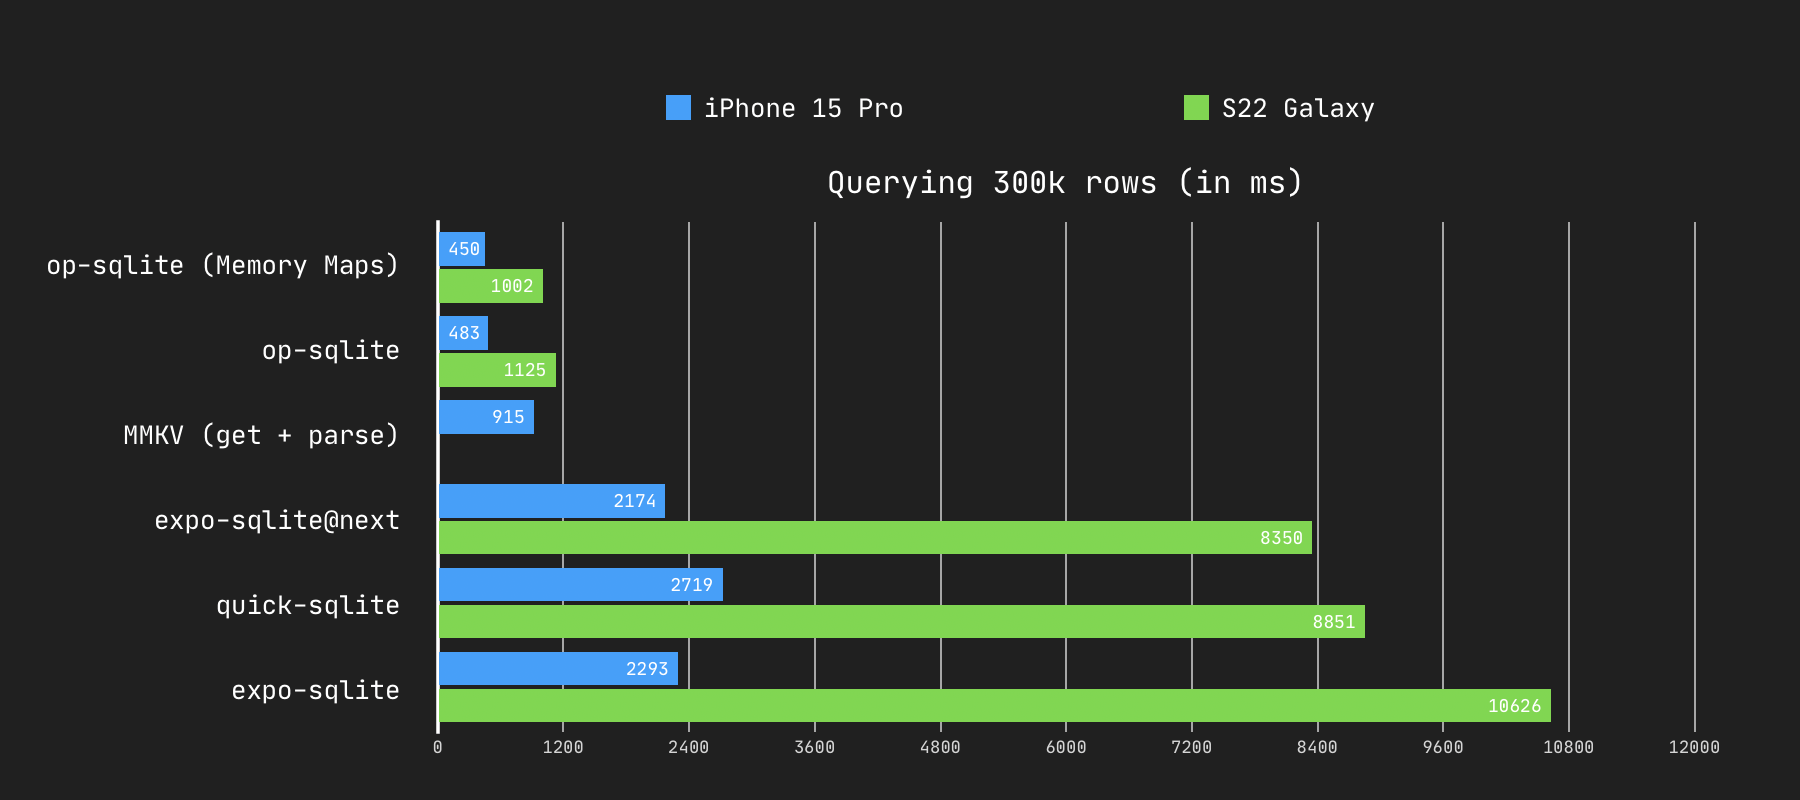
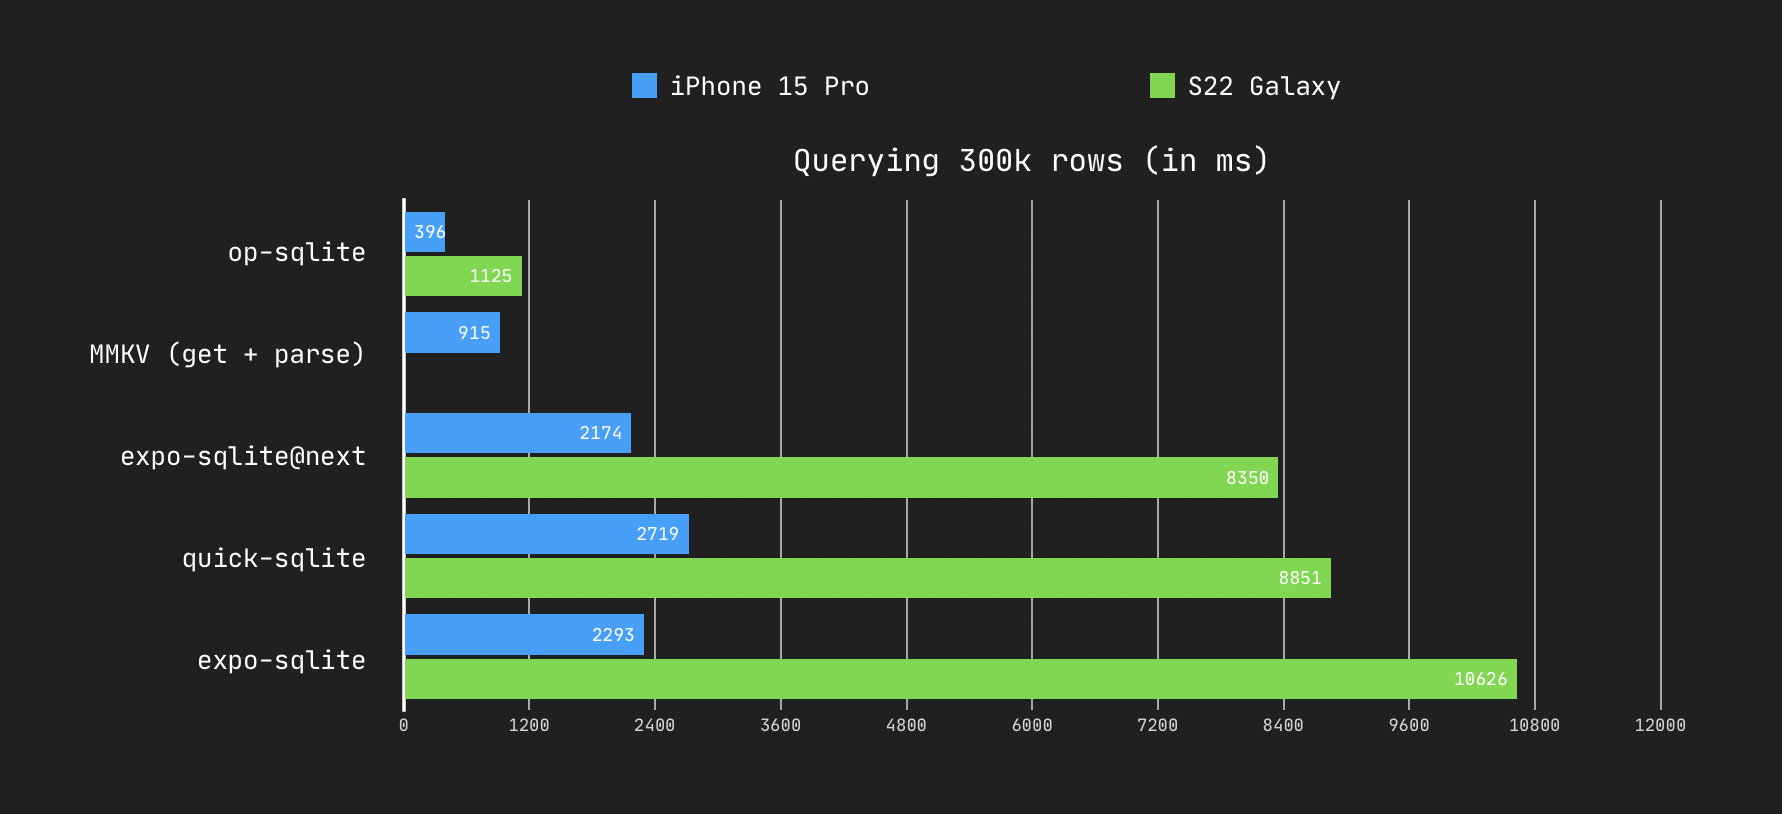
Add performance flag

diff --git a/example/src/Database.ts b/example/src/Database.ts
@@ -84,7 +84,7 @@ export async function queryLargeDB() {
     let end = performance.now();
     times.loadFromDb.push(end - start);
 
-    mmkv.set('largeDB', JSON.stringify(results));
+    // mmkv.set('largeDB', JSON.stringify(results));
     // // @ts-ignore
     // global.gc();
 
@@ -96,34 +96,34 @@ export async function queryLargeDB() {
     // console.log('MMKV time', (end - start).toFixed(2));
 
     // @ts-ignore
-    global.gc();
+    // global.gc();
 
-    performance.mark('accessingStart');
-    const rows = results.rows!._array;
-    for (let i = 0; i < rows.length; i++) {
-      const v1 = rows[i].v14;
-    }
-    const accessMeasurement = performance.measure(
-      'accessingEnd',
-      'accessingStart',
-    );
-    times.access.push(accessMeasurement.duration);
+    // performance.mark('accessingStart');
+    // const rows = results.rows!._array;
+    // for (let i = 0; i < rows.length; i++) {
+    //   const v1 = rows[i].v14;
+    // }
+    // const accessMeasurement = performance.measure(
+    //   'accessingEnd',
+    //   'accessingStart',
+    // );
+    // times.access.push(accessMeasurement.duration);
 
-    // @ts-ignore
-    global.gc();
+    // // @ts-ignore
+    // global.gc();
 
-    start = performance.now();
-    const statement = largeDb.prepareStatement('SELECT * FROM Test');
-    end = performance.now();
-    times.prepare.push(end - start);
+    // start = performance.now();
+    // const statement = largeDb.prepareStatement('SELECT * FROM Test');
+    // end = performance.now();
+    // times.prepare.push(end - start);
 
-    // @ts-ignore
-    global.gc();
+    // // @ts-ignore
+    // global.gc();
 
-    start = performance.now();
-    let results2 = statement.execute();
-    end = performance.now();
-    times.preparedExecution.push(end - start);
+    // start = performance.now();
+    // let results2 = statement.execute();
+    // end = performance.now();
+    // times.preparedExecution.push(end - start);
   }
 
   return times;

diff --git a/README.md b/README.md
@@ -16,7 +16,7 @@ Created by [@ospfranco](https://twitter.com/ospfranco). **Please consider Sponso
 
 ## Benchmarks
 
-You can find the [benchmarking code in the example app](https://github.com/OP-Engineering/op-sqlite/blob/main/example/src/Database.ts#L44). You should expect anywhere between a 5x to an 8x improvement over non-JSI packages, and now a 5x to 8x improvement over quick-sqlite and expo-sqlite. Loading a 300k record database (in milliseconds).
+You can find the [benchmarking code in the example app](https://github.com/OP-Engineering/op-sqlite/blob/main/example/src/Database.ts#L44). This is run using the `OP_SQLITE_PERF` flag which in turns disables some old and unused features of sqlite to squeeze the last drop of performance.
 
 ![benchmark](benchmark.png)
 
@@ -104,7 +104,7 @@ const largeDb = open({
 });
 ```
 
-# Speed
+# Performance
 
 op-sqlite is already the fastest solution it can be, but it doesn't mean you cannot tweak SQLite to be faster (at the cost of some disadvantages). One possible tweak is turning on [Memory Mapping](https://www.sqlite.org/mmap.html). It allows to read/write to/from the disk without going through the kernel. However, if your queries throw an error your application might crash.
 
@@ -128,6 +128,14 @@ db.execute('PRAGMA journal_mode = MEMORY;'); // or OFF
 If you use [prepared statements](#prepared-statements) plus memory mapping and set journaling to memory, you can get to inches of MMKV for the most performance critical queries, here is a simple example writing/reading a single value.
 
 ![mmkv comparison](mmkv.png)
+
+# Perf flag
+
+You can turn on the performance flag to tweak all possible performance enhancing compilation flags, this greatly affects performance of sqlite itself
+
+```
+OP_SQLITE_PERF=1 npx pod-install
+```
 
 # SQLite Gotchas
 
